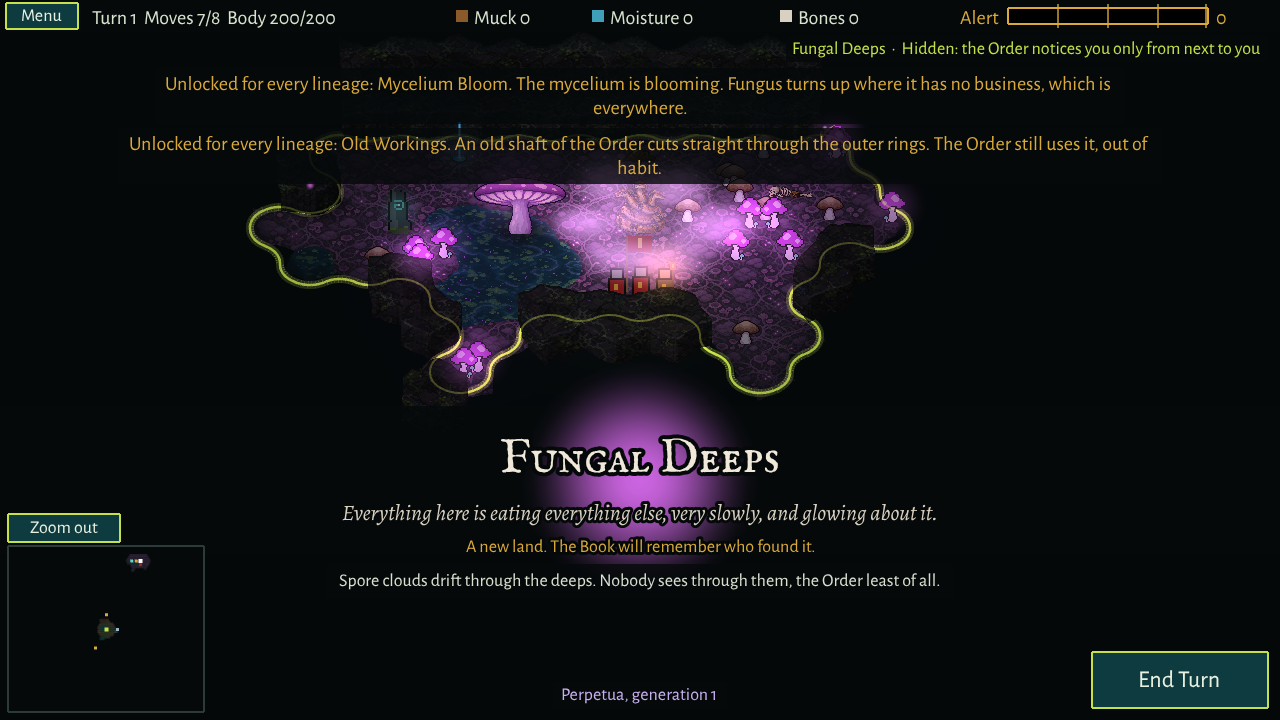
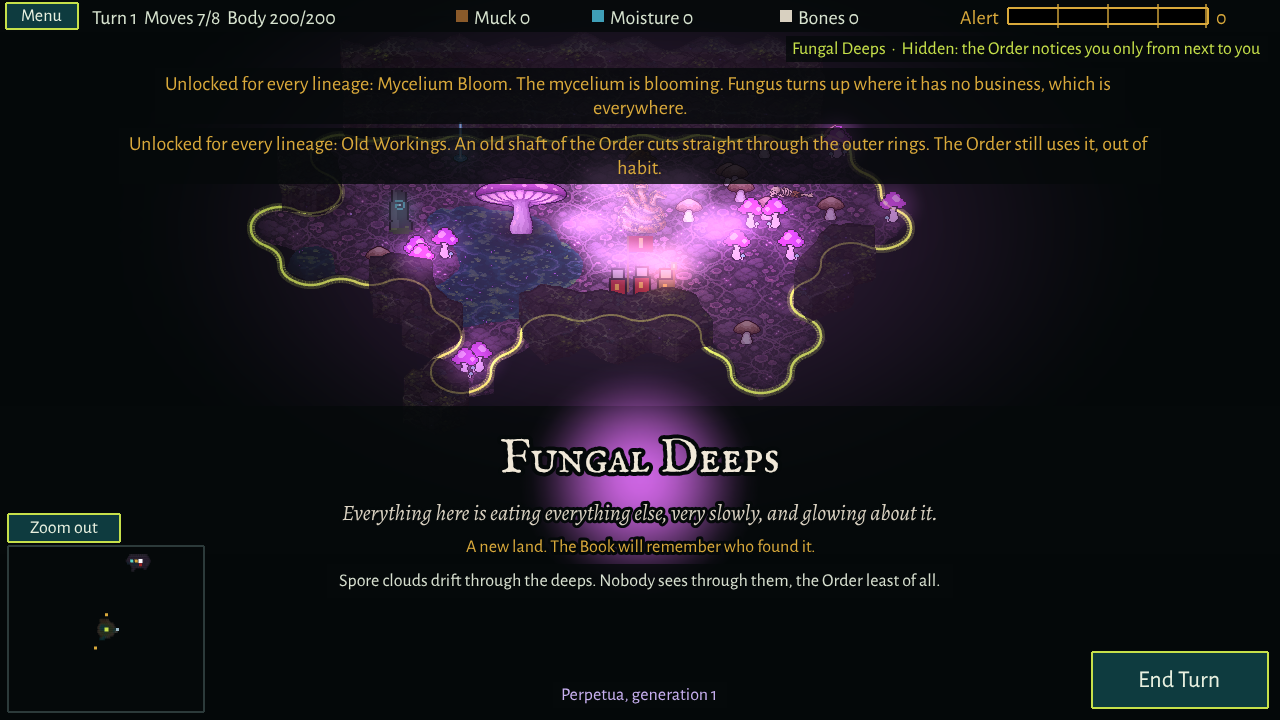
Map: the hydra walks one smooth curve; a new land sweeps its light over the map
- The walk is one Catmull-Rom curve through the hexes (a current's stretch
  quicker), speeding up and slowing down at the ends; the camera keeps her in
  the middle half of the view while she walks.
- A new land: its glow sweeps out from the hydra (twice for a land no hydra
  has found), its ground she sees lights up hex by hex, nearest first, with a
  mote rising off each; a first find's name closes its letters up. A richer
  chord for a first find, a shimmer (new cue landEntered) for the rest.
- The HUD's land line waits for the walk to end.
- Shot map-land-reveal.

Claude-Session: https://claude.ai/code/session_01YAxGtVC6TZfSpD8XVKcdPa

Changed region(s): [[0.1875, 0.2444, 0.75, 0.5806], [0.3125, 0.1528, 0.6875, 0.1833], [0.4062, 0.0611, 0.625, 0.0917]]

diff --git a/src/scenes/MapScene.ts b/src/scenes/MapScene.ts
@@ -51,6 +51,12 @@ const CARRIED_STEP_MS = 80;
  * stretches up a little (share of its height). Carried by a current, it only rocks a little.
  */
 const SLITHER = { sway: 5, stretch: 0.07, carriedSway: 2 } as const;
+/**
+ * The walk is one smooth curve through the hexes, not a line from hex to hex: it speeds up over the first `rampSteps`
+ * steps' time and slows down over the last ones. While it walks, the camera keeps it in the middle `freeShare` of the
+ * view, moving only when it would leave that.
+ */
+const WALK = { rampSteps: 1.2, freeShare: 0.5 } as const;
 /** Below this page zoom (small screens, e.g. phones) the map camera zooms in 2×, so hexes are big enough for fingers. */
 const SMALL_SCREEN_ZOOM = 2;
 /**
@@ -84,6 +90,27 @@ const WHISPERED_ALPHA = 0.55;
 const BIOME_LABEL_MS = 2600;
 /** A land with its own rule (GAME_DESIGN.md §9.2) keeps its card up this much longer, to read the rule. */
 const BIOME_RULE_EXTRA_MS = 1600;
+/**
+ * The moment a new land comes into sight (GAME_DESIGN.md §9.2): its light sweeps out from the hydra this many hexes
+ * (one sweep, two for a land no hydra has found, the second this much later), and its ground she sees lights up hex by
+ * hex, `perHexMs` later for each hex further, each glow this big (times a hex's width) with a mote rising off it. The
+ * name of a land found for the first time closes its letters up from `letterSpacing[0]` to `[1]` px.
+ */
+const LAND_REVEAL = {
+  sweepHexes: 9,
+  sweepMs: 1700,
+  secondSweepMs: 350,
+  sweepAlpha: 0.5,
+  maxHexes: 90,
+  firstHexMs: 150,
+  perHexMs: 110,
+  hexMs: 900,
+  hexGlowSize: 1.6,
+  hexAlpha: 0.55,
+  moteRise: 14,
+  letterSpacing: [14, 0] as const,
+  titleMs: 1600,
+} as const;
 /** With another new land's card waiting behind it (a step through two lands), a card stays up only this share as long. */
 const BIOME_LABEL_QUEUED_SHARE = 0.6;
 /**
@@ -212,6 +239,14 @@ const HIDDEN_ALPHA = 0.6;
 
 /** The map the last map scene showed, so going up or down a Passage fades the new one in. */
 let shownLayer: Layer | null = null;
+
+/** A stretch of the hydra's walk: the hexes, how long a step takes, and how much it sways and stretches on each. */
+interface WalkLeg {
+  hexes: Hex[];
+  stepMs: number;
+  sway: number;
+  stretch: number;
+}
 
 /** A light over something: its picture, how bright it is when seen, and the light it casts on the ground around it. */
 type Glow = { image: Phaser.GameObjects.Image; alpha: number; groundY: number; radius: number; color: number };
@@ -1271,7 +1306,7 @@ export class MapScene extends Phaser.Scene {
     this.showingBiomeName = true;
     const keeper = lineages(this);
     const firstEver = !(keeper.profile.knowledge.landsFound ?? []).some((l) => l.biome === biomeId);
-    if (firstEver) playCue(this, 'map', 'newLand');
+    playCue(this, 'map', firstEver ? 'newLand' : 'landEntered');
     // The camera zooms even what doesn't scroll (2× on phones), so the card is placed and sized to undo that.
     // Low on the screen, clear of the HUD's messages at the top.
     const middle = SCREEN.height - (firstEver ? 120 : 64);
@@ -1293,7 +1328,9 @@ export class MapScene extends Phaser.Scene {
     const nameStyle = firstEver
       ? { fontFamily: FONT.title, fontSize: '24px', color: '#f0e8d8', stroke: '#05090a', strokeThickness: 4 }
       : { fontFamily: FONT.title, fontSize: '15px', color: '#e8e0d0', backgroundColor: '#05090acc', padding: { x: 8, y: 3 } };
-    pin(this.add.text(0, 0, biome.displayName, nameStyle).setOrigin(0.5, firstEver ? 1 : 0), SCREEN.width / 2, firstEver ? middle + 4 : middle);
+    const title = pin(this.add.text(0, 0, biome.displayName, nameStyle).setOrigin(0.5, firstEver ? 1 : 0), SCREEN.width / 2, firstEver ? middle + 4 : middle);
+    if (firstEver) this.spreadTitle(title);
+    this.revealLand(biomeId, biome.colors.glow, firstEver);
     if (firstEver) {
       if (biome.discoveryLine) {
         pin(
@@ -1340,31 +1377,95 @@ export class MapScene extends Phaser.Scene {
     this.endBiomeName = end;
   }
 
+  /** The name of a land found for the first time draws itself together, its letters closing up as it fades in. */
+  private spreadTitle(title: Phaser.GameObjects.Text): void {
+    const [wide, usual] = LAND_REVEAL.letterSpacing;
+    this.tweens.addCounter({
+      from: wide,
+      to: usual,
+      duration: LAND_REVEAL.titleMs,
+      ease: 'Cubic.easeOut',
+      onUpdate: (tween) => {
+        if (!title.active) return;
+        title.letterSpacing = tween.getValue() ?? usual;
+        title.updateText();
+      },
+    });
+  }
+
+  /**
+   * A new land comes into sight (GAME_DESIGN.md §9.2): its light sweeps out from the hydra over the map, and its
+   * ground that she sees lights up hex by hex, nearest first, like a wave. Bigger for a land no hydra has found.
+   */
+  private revealLand(biomeId: string, glow: string, big: boolean): void {
+    const { state } = this.run;
+    const here = state.hydra.position;
+    const { x, y } = hexToPixel(LAYOUT, here);
+    const tint = color(glow);
+    const reach = (LAND_REVEAL.sweepHexes * MAP_COLUMN_WIDTH * 2) / LIGHT_TEXTURE_SIZE;
+    for (let i = 0; i < (big ? 2 : 1); i++) {
+      const sweep = this.add.image(x, y, LIGHT_TEXTURE).setTint(tint).setBlendMode(Phaser.BlendModes.ADD).setDepth(DEPTH.glow).setScale(0.05).setAlpha(0);
+      const delay = i * LAND_REVEAL.secondSweepMs;
+      this.tweens.add({ targets: sweep, scaleX: reach, scaleY: reach * 0.62, duration: LAND_REVEAL.sweepMs, delay, ease: 'Cubic.easeOut', onComplete: () => sweep.destroy() });
+      // It brightens as it spreads, then fades: never a hot spot on the hydra.
+      const peak = big ? LAND_REVEAL.sweepAlpha : LAND_REVEAL.sweepAlpha * 0.6;
+      this.tweens.chain({
+        targets: sweep,
+        tweens: [
+          { alpha: peak, duration: LAND_REVEAL.sweepMs * 0.3, delay, ease: 'Sine.easeOut' },
+          { alpha: 0, duration: LAND_REVEAL.sweepMs * 0.7, ease: 'Sine.easeIn' },
+        ],
+      });
+    }
+    const ground = [...this.known]
+      .flatMap(([key, seen]) => {
+        const tile = seen === 'visible' ? this.shown.tiles.get(key) : undefined;
+        return tile && tile.biome === biomeId && tile.terrain !== 'rock' ? [tile] : [];
+      })
+      .map((tile) => ({ tile, distance: hexDistance(here, tile.hex) }))
+      .sort((a, b) => a.distance - b.distance)
+      .slice(0, LAND_REVEAL.maxHexes);
+    const size = (MAP_COLUMN_WIDTH * LAND_REVEAL.hexGlowSize) / LIGHT_TEXTURE_SIZE;
+    for (const { tile, distance } of ground) {
+      const at = hexToPixel(LAYOUT, tile.hex);
+      const light = this.add.image(at.x, at.y, LIGHT_TEXTURE).setTint(tint).setBlendMode(Phaser.BlendModes.ADD).setDepth(DEPTH.glow).setScale(size, size * 0.62).setAlpha(0);
+      this.tweens.add({
+        targets: light,
+        alpha: { from: 0, to: big ? LAND_REVEAL.hexAlpha : LAND_REVEAL.hexAlpha * 0.7 },
+        duration: LAND_REVEAL.hexMs / 2,
+        delay: LAND_REVEAL.firstHexMs + distance * LAND_REVEAL.perHexMs,
+        yoyo: true,
+        ease: 'Sine.easeInOut',
+        onComplete: () => light.destroy(),
+      });
+      // A mote rises off it and fades, as if the land breathed out.
+      const mote = this.add.image(at.x, at.y - 2, LIGHT_TEXTURE).setTint(tint).setBlendMode(Phaser.BlendModes.ADD).setDepth(DEPTH.glow).setScale(size * 0.18).setAlpha(0);
+      this.tweens.add({
+        targets: mote,
+        y: at.y - 2 - LAND_REVEAL.moteRise,
+        alpha: { from: 0.9, to: 0 },
+        duration: LAND_REVEAL.hexMs * 1.4,
+        delay: LAND_REVEAL.firstHexMs + distance * LAND_REVEAL.perHexMs + LAND_REVEAL.hexMs / 3,
+        ease: 'Quad.easeOut',
+        onComplete: () => mote.destroy(),
+      });
+    }
+  }
+
   /** Walks (or floats, carried by a current) the hydra along the path it took, then shows the new state. */
   private animate(events: RunEvent[]): void {
-    const steps: Array<{ x: number; y: number; duration: number; onUpdate: (tween: Phaser.Tweens.Tween) => void }> = [];
-    const step = (h: Hex, duration: number, sway: number, stretch: number): void => {
-      const side = steps.length % 2 === 0 ? 1 : -1;
-      steps.push({
-        ...this.tokenPosition(h),
-        duration,
-        onUpdate: (tween) => {
-          const swing = Math.sin(tween.progress * Math.PI);
-          this.token.setAngle(side * sway * swing).setScale((1 - (stretch / 2) * swing) * this.iconScale, (1 + stretch * swing) * this.iconScale);
-        },
-      });
-    };
     if (events.some((e) => e.type === 'climbed')) {
       this.changeLayer();
       return;
     }
+    const legs: WalkLeg[] = [];
     for (const event of events) {
-      if (event.type === 'moved') for (const h of event.path) step(h, STEP_DURATION_MS, SLITHER.sway, SLITHER.stretch);
-      if (event.type === 'carried') for (const h of event.path) step(h, CARRIED_STEP_MS, SLITHER.carriedSway, 0);
+      if (event.type === 'moved' && event.path.length > 0) legs.push({ hexes: event.path, stepMs: STEP_DURATION_MS, sway: SLITHER.sway, stretch: SLITHER.stretch });
+      if (event.type === 'carried' && event.path.length > 0) legs.push({ hexes: event.path, stepMs: CARRIED_STEP_MS, sway: SLITHER.carriedSway, stretch: 0 });
     }
     // Something far off opened: the camera goes to show it.
     const revealed = events.find((e) => e.type === 'thresholdRevealed' || e.type === 'tunnelBored' || e.type === 'leadPlaced') as { at: Hex } | undefined;
-    if (steps.length === 0) {
+    if (legs.length === 0) {
       // Even if the camera is still settling on the hydra (a lead appears right after she steps on an event).
       if (revealed) this.panTo(revealed.at, true);
       this.animateOrder(events);
@@ -1378,15 +1479,20 @@ export class MapScene extends Phaser.Scene {
     this.path.clear();
     this.journeyDots.clear();
     this.journeyTurns.setVisible(false);
-    this.tweens.chain({
-      targets: this.token,
-      tweens: steps,
-      onUpdate: () => {
+    const walk = this.walkAlong(legs);
+    this.tweens.addCounter({
+      from: 0,
+      to: 1,
+      duration: walk.duration,
+      onUpdate: (tween) => {
+        walk.at(tween.getValue() ?? 0);
         this.token.setDepth(this.tokenDepth(this.token.y));
         this.tokenShadow.setPosition(this.token.x, this.token.y - 1);
+        this.keepInView(this.token.x, this.token.y);
         this.drawLights();
       },
       onComplete: () => {
+        walk.at(1);
         this.animating = false;
         this.token.setAngle(0).setScale(this.iconScale);
         if (this.journey && hexEquals(this.journey, this.run.state.hydra.position)) this.journey = null;
@@ -1396,6 +1502,54 @@ export class MapScene extends Phaser.Scene {
         this.run.settle();
       },
     });
+  }
+
+  /**
+   * The hydra's walk along legs of hexes (walked, or carried faster by a current): one smooth curve from where it
+   * stands through every hex, and a function that puts it where it is at a share of the walk's time (0..1), swaying
+   * and stretching as it slithers. It speeds up at the start and slows down at the end (WALK.rampSteps).
+   */
+  private walkAlong(legs: WalkLeg[]): { duration: number; at: (share: number) => void } {
+    const steps = legs.flatMap((leg) => leg.hexes.map(() => leg));
+    const points = [new Phaser.Math.Vector2(this.token.x, this.token.y), ...legs.flatMap((leg) => leg.hexes.map((h) => new Phaser.Math.Vector2(this.tokenPosition(h).x, this.tokenPosition(h).y)))];
+    const curve = new Phaser.Curves.Spline(points);
+    // When each step starts and ends, in ms from the start.
+    const ends: number[] = [];
+    let total = 0;
+    for (const step of steps) ends.push((total += step.stepMs));
+    const ramp = Math.min(0.5, (STEP_DURATION_MS * WALK.rampSteps) / total);
+    // Speed up, go on evenly, slow down: the share of the way gone at a share of the time.
+    const gone = (t: number): number => {
+      const v = 1 / (1 - ramp);
+      if (t < ramp) return (v * t * t) / (2 * ramp);
+      if (t > 1 - ramp) return 1 - (v * (1 - t) * (1 - t)) / (2 * ramp);
+      return v * (t - ramp / 2);
+    };
+    const at = (share: number): void => {
+      // The way is measured in time at each leg's own pace (a current is quicker), so it is found step by step.
+      const time = Phaser.Math.Clamp(gone(share), 0, 1) * total;
+      let index = ends.findIndex((end) => time <= end);
+      if (index < 0) index = steps.length - 1;
+      const step = steps[index]!;
+      const within = Phaser.Math.Clamp((time - (ends[index]! - step.stepMs)) / step.stepMs, 0, 1);
+      const travelled = index + within;
+      const point = curve.getPoint(travelled / steps.length);
+      const swing = Math.sin(Math.PI * travelled);
+      this.token.setPosition(point.x, point.y);
+      this.token.setAngle(step.sway * swing).setScale((1 - (step.stretch / 2) * Math.abs(swing)) * this.iconScale, (1 + step.stretch * Math.abs(swing)) * this.iconScale);
+    };
+    return { duration: total, at };
+  }
+
+  /** While the hydra walks, the camera moves only to keep it in the middle of the view (WALK.freeShare). */
+  private keepInView(x: number, y: number): void {
+    const cam = this.cameras.main;
+    const freeX = (cam.width / cam.zoom) * WALK.freeShare * 0.5;
+    const freeY = (cam.height / cam.zoom) * WALK.freeShare * 0.5;
+    const dx = x - (cam.scrollX + cam.width / 2);
+    const dy = y - (cam.scrollY + cam.height / 2);
+    if (Math.abs(dx) > freeX) cam.scrollX += dx - Math.sign(dx) * freeX;
+    if (Math.abs(dy) > freeY) cam.scrollY += dy - Math.sign(dy) * freeY;
   }
 
   /** The Order's people walk (the world turn), then the map shows the new state; a patrol that found the hydra fights her. */

diff --git a/src/data/schemas.ts b/src/data/schemas.ts
@@ -1523,7 +1523,7 @@ const soundLayerSchema = section({
 /** Moments that can have a sound (sounds.json cues); a new one needs code that plays it. */
 export const SOUND_CUES = {
   ui: ['button', 'ending'],
-  map: ['moved', 'mistExhaled', 'shrineOut', 'castleOpened', 'castleShut', 'rested', 'mutationGained', 'thresholdOpened', 'eggLaid', 'battleWon', 'findTaken', 'headLevelled', 'alertStage', 'climbed', 'newLand'],
+  map: ['moved', 'mistExhaled', 'shrineOut', 'castleOpened', 'castleShut', 'rested', 'mutationGained', 'thresholdOpened', 'eggLaid', 'battleWon', 'findTaken', 'headLevelled', 'alertStage', 'climbed', 'newLand', 'landEntered'],
   battle: ['headHits', 'hydraHurt', 'severed', 'regrown', 'cauterized', 'combo', 'skill', 'devoured', 'enemyKilled', 'brazierOut', 'flameDoused', 'flameOut', 'won', 'lost'],
 } as const;
 const cueList = <T extends readonly [string, ...string[]]>(names: T) => z.partialRecord(z.enum(names), z.string().min(1));

diff --git a/src/ui/HudScene.ts b/src/ui/HudScene.ts
@@ -654,6 +654,8 @@ export class HudScene extends Phaser.Scene {
    * or a spore cloud hide her, that she is hidden.
    */
   private refreshLand(): void {
+    // While the map still shows the walk there, the line keeps the land she set off from.
+    if (this.run.animating) return;
     const { state, rules } = this.run;
     const { biomes, text, palette } = getContext(this).data;
     const tile = state.hydra.layer === 'underground' ? state.map.tiles.get(hexKey(state.hydra.position)) : undefined;
